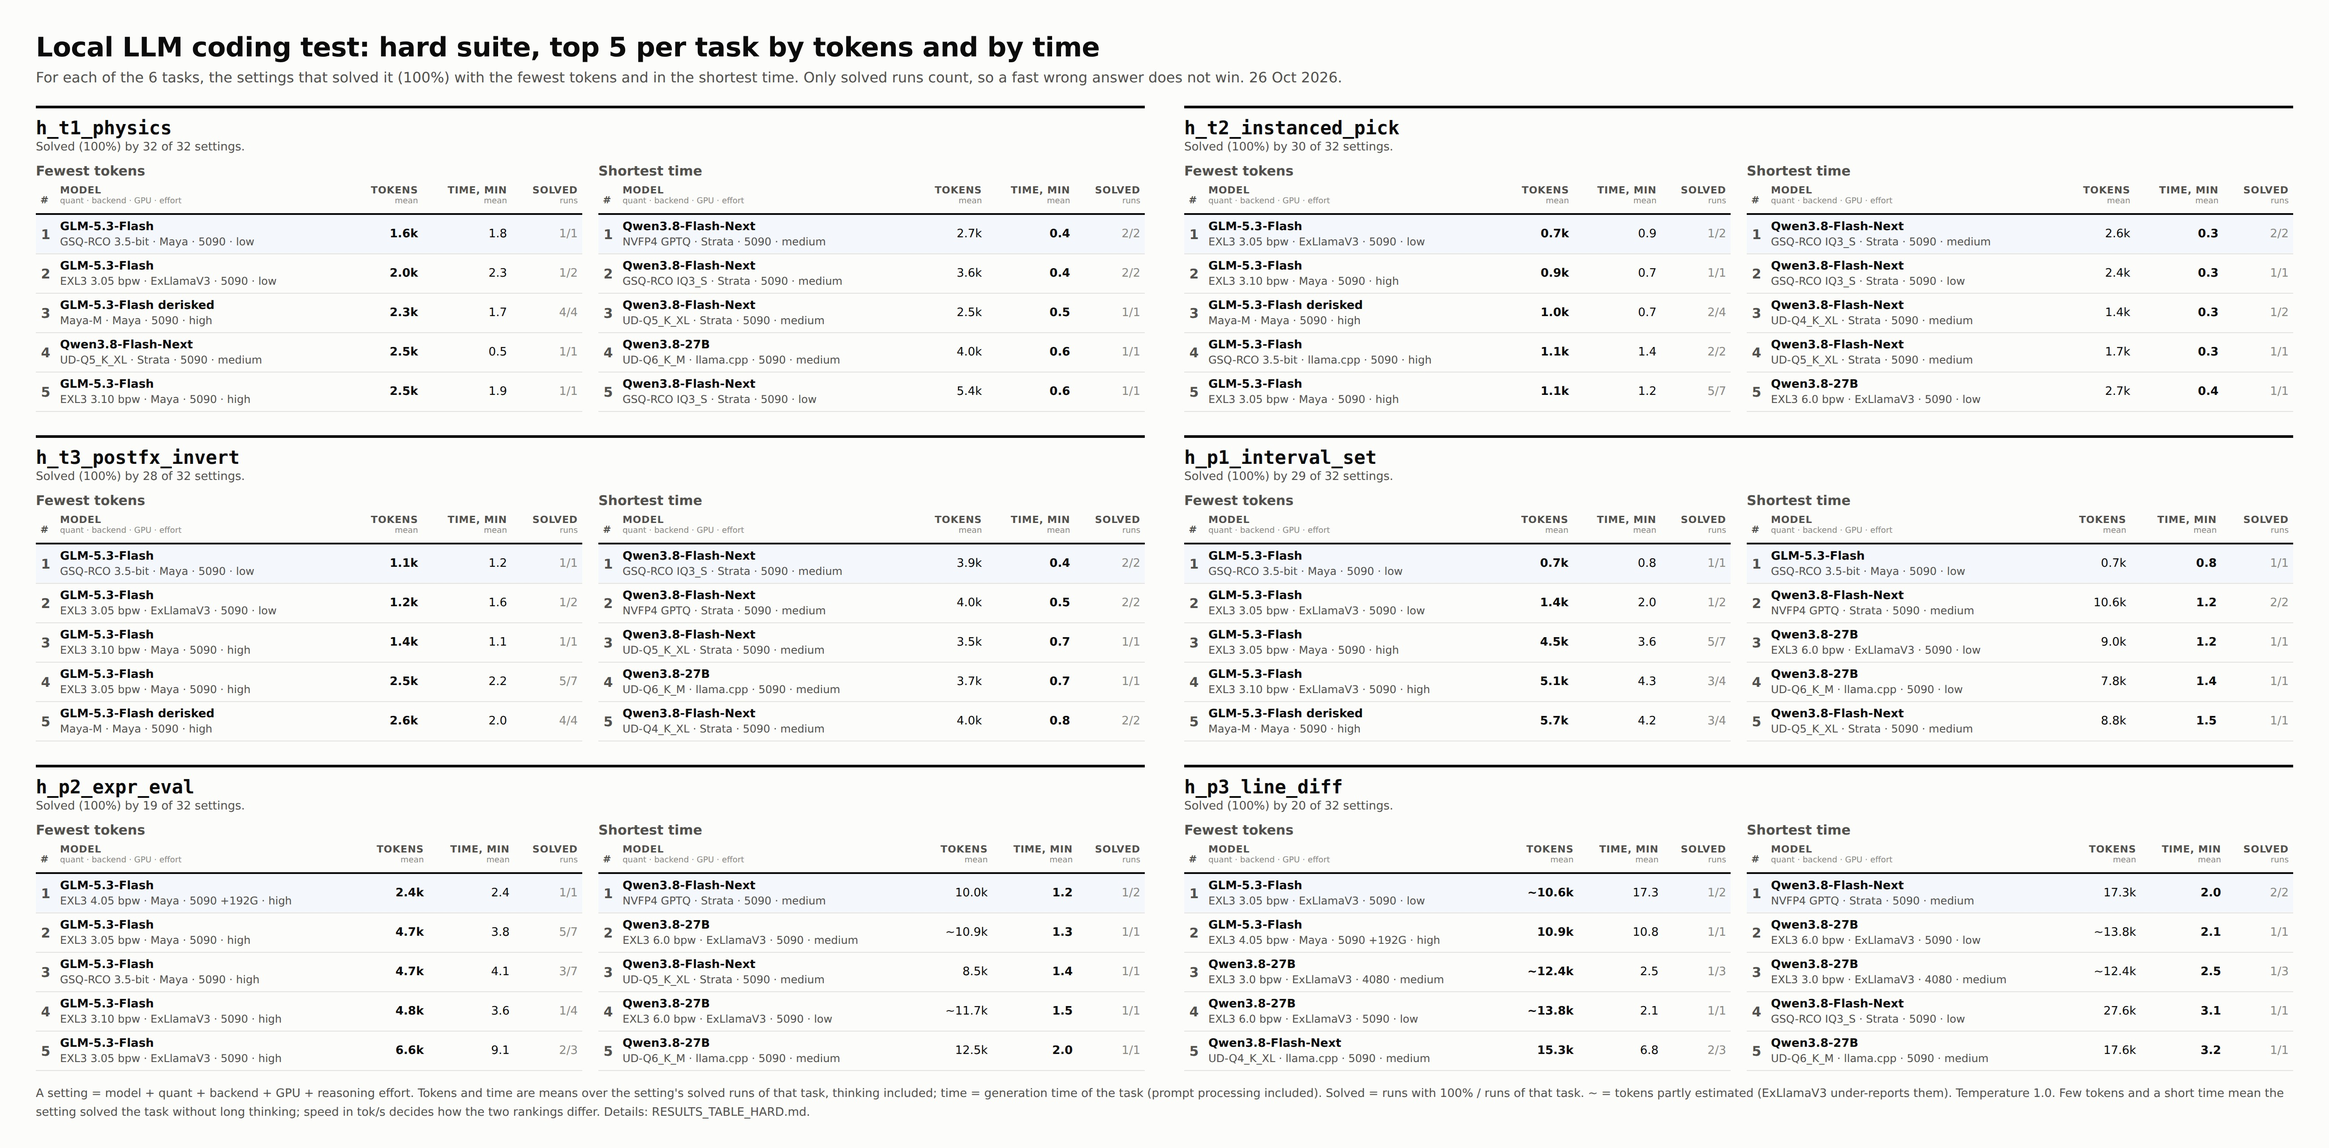
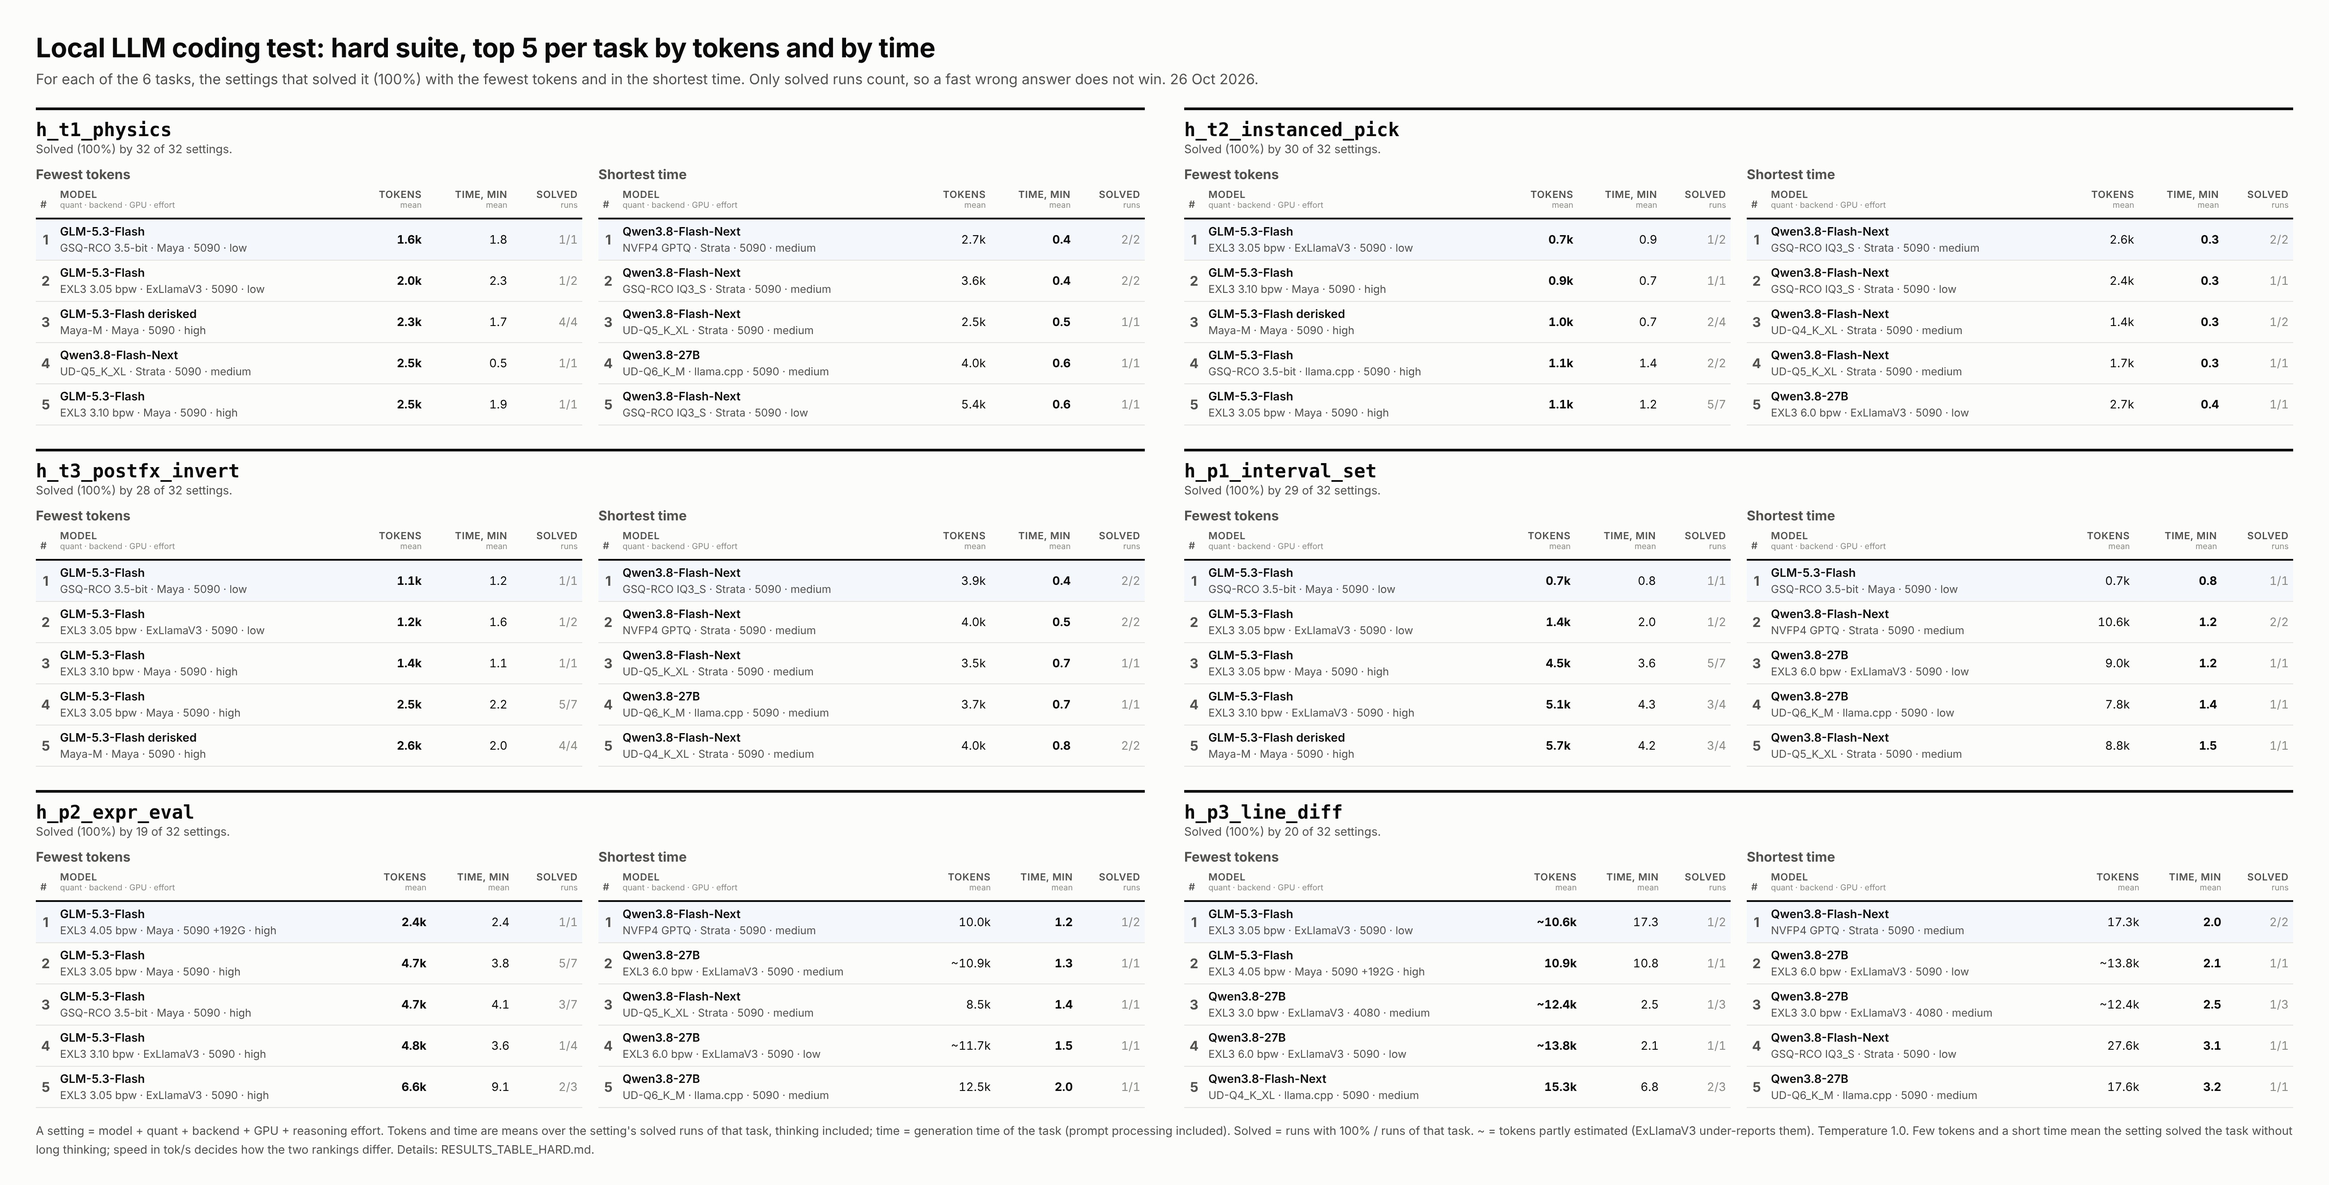
Scene suite: two DeepSeek-V4.1 runs on EXL2 2.9 bpw in Maya (100%), by-eye ratings, quant label EXL2
make_summary.py reads 'exl2.N' labels as EXL2 2.N bpw. ratings_scene.json: by-eye ratings for the two
new runs (low 6.5, high 7.5). Tables, gallery and docs regenerated; the Maya thinking cap at about
32.8k tokens holds again (32,781 and 32,796).

Claude-Session: https://claude.ai/code/session_01Hw6zjR7HPW2DCjpvk73ycY

diff --git a/make_summary.py b/make_summary.py
@@ -61,8 +61,11 @@ def describe(label, model):
         ver = "V4.1" if re.search(r"v?4[._]1(?![0-9])", m) else "V4"
         name = f"DeepSeek-{ver}-" + ("Pro" if re.search(r"[_-]pro(?![a-z0-9])", m) else "Flash")
         gguf = re.search(r"(ud-)?i?q\d_[a-z0-9]+(_[a-z]{1,2})?", m)
+        exl2 = re.search(r"exl2\.(\d)", m)  # "exl2.9": EXL2 at 2.9 bpw
         if "exl3" in m and bpw:
             quant = f"EXL3 {bpw.group(1) or bpw.group(2) or bpw.group(3) + '.' + bpw.group(4)} bpw"
+        elif exl2:
+            quant = f"EXL2 2.{exl2.group(1)} bpw"
         elif gguf:
             quant = ("GSQ-RCO " if "gsq-rco" in m else "") + gguf.group(0).upper()
         elif bit:

diff --git a/RESULTS_TABLE_SCENE.md b/RESULTS_TABLE_SCENE.md
@@ -12,8 +12,8 @@ Hardware: RTX 5090 32 GB + 128 GB RAM, and RTX 4080 16 GB + 32 GB DDR5 (the GPU 
 |---|---|---|---|---|---|---|---|---|---|---|---|---|---|---|
 | 1 | Qwen3.8-Flash-Next | NVFP4 GPTQ | Strata | RTX 5090 32 GB + 192 GB RAM | medium | 1 | **100.0%** | – | 100.0% | 0% | 1.2 | 8.4k | 155.8 | 30.8 |
 | 2 | DeepSeek-V4.1-Flash | GSQ-RCO IQ2_XS | Strata | RTX 5090 32 GB + 192 GB RAM | high | 1 | **100.0%** | – | 0.0% | 0% | 24.3 | 39.5k | 27.4 | 31.3 |
-| 3 | DeepSeek-V4.1-Flash | ? | Maya | RTX 5090 32 GB + 192 GB RAM | low | 1 | **100.0%** | – | 0.0% | 0% | 28.0 | 40.1k | 24.2 | 31.0 |
-| 4 | DeepSeek-V4.1-Flash | ? | Maya | RTX 5090 32 GB + 192 GB RAM | high | 1 | **100.0%** | – | 0.0% | 0% | 30.2 | 41.6k | 23.2 | 31.2 |
+| 3 | DeepSeek-V4.1-Flash | EXL2 2.9 bpw | Maya | RTX 5090 32 GB + 192 GB RAM | low | 1 | **100.0%** | – | 0.0% | 0% | 28.0 | 40.1k | 24.2 | 31.0 |
+| 4 | DeepSeek-V4.1-Flash | EXL2 2.9 bpw | Maya | RTX 5090 32 GB + 192 GB RAM | high | 1 | **100.0%** | – | 0.0% | 0% | 30.2 | 41.6k | 23.2 | 31.2 |
 | 5 | GLM-5.3-Flash | GSQ-RCO 3.5-bit | Maya | RTX 5090 32 GB + 192 GB RAM | high | 1 | **95.7%** | – | 0.0% | 0% | 27.8 | 40.0k | 24.2 | 31.0 |
 | 6 | GLM-5.3-Flash | EXL3 4.10 bpw | Maya | RTX 5090 32 GB + 192 GB RAM | high, 180 min | 1 | **95.7%** | – | 0.0% | 0% | 40.5 | 40.7k | 16.9 | 30.7 |
 | 7 | DeepSeek-V4.1-Flash | Maya-S | Maya | RTX 5090 32 GB + 192 GB RAM | high | 2 | **93.5%** | 87–100 | 0.0% | 0% | 28.8 | 42.6k | 24.9 | 31.4 |
@@ -33,9 +33,9 @@ Hardware: RTX 5090 32 GB + 128 GB RAM, and RTX 4080 16 GB + 32 GB DDR5 (the GPU 
 |---|---|---|---|---|---|---|---|---|---|---|---|---|---|---|---|---|---|
 | 1 | 26.10 12:55 | Qwen3.8-Flash-Next | NVFP4 GPTQ | Strata | RTX 5090 32 GB + 192 GB RAM | medium | **100.0%** | n/a | 100.0 | 1.2 | 8.4k | 1.6k | 6.8k | **152.4** | 163 | 30.8 | 85.8 |
 | 2 | 26.10 12:59 | DeepSeek-V4.1-Flash | GSQ-RCO IQ2_XS | Strata | RTX 5090 32 GB + 192 GB RAM | high | **100.0%** | n/a | 100.0 | 24.3 | 39.5k | 32.8k | 6.7k | **27.4** | 28 | 31.3 | 166.4 |
-| 3 | 26.10 16:43 | DeepSeek-V4.1-Flash | ? | Maya | RTX 5090 32 GB + 192 GB RAM | low | **100.0%** | n/a | 100.0 | 28.0 | 40.1k | 32.8k | 7.3k | **24.2** | 25 | 31.0 | 177.0 |
+| 3 | 26.10 16:43 | DeepSeek-V4.1-Flash | EXL2 2.9 bpw | Maya | RTX 5090 32 GB + 192 GB RAM | low | **100.0%** | n/a | 100.0 | 28.0 | 40.1k | 32.8k | 7.3k | **24.2** | 25 | 31.0 | 177.0 |
 | 4 | 26.10 12:08 | DeepSeek-V4.1-Flash | Maya-S | Maya | RTX 5090 32 GB + 192 GB RAM | high | **100.0%** | n/a | 100.0 | 29.4 | 41.8k | 32.8k | 9.1k | **24.0** | 24 | 31.3 | 163.2 |
-| 5 | 26.10 19:29 | DeepSeek-V4.1-Flash | ? | Maya | RTX 5090 32 GB + 192 GB RAM | high | **100.0%** | n/a | 100.0 | 30.2 | 41.6k | 32.8k | 8.8k | **23.3** | 24 | 31.2 | 187.2 |
+| 5 | 26.10 19:29 | DeepSeek-V4.1-Flash | EXL2 2.9 bpw | Maya | RTX 5090 32 GB + 192 GB RAM | high | **100.0%** | n/a | 100.0 | 30.2 | 41.6k | 32.8k | 8.8k | **23.3** | 24 | 31.2 | 187.2 |
 | 6 | 26.10 13:58 | GLM-5.3-Flash | GSQ-RCO 3.5-bit | Maya | RTX 5090 32 GB + 192 GB RAM | high | **95.7%** | n/a | 95.7 | 27.8 | 40.0k | 32.8k | 7.2k | **24.3** | 24 | 31.0 | 129.0 |
 | 7 | 26.10 14:34 | GLM-5.3-Flash | EXL3 4.10 bpw | Maya | RTX 5090 32 GB + 192 GB RAM | high, 180 min | **95.7%** | n/a | 95.7 | 40.5 | 40.7k | 32.8k | 7.9k | **16.9** | 17 | 30.7 | 155.7 |
 | 8 | 26.10 11:37 | DeepSeek-V4.1-Flash | Maya-S | Maya | RTX 5090 32 GB + 192 GB RAM | high | **87.0%** | n/a | 87.0 | 28.2 | 43.4k | 32.8k | 10.6k | **25.9** | 26 | 31.4 | 161.6 |
@@ -47,9 +47,9 @@ Hardware: RTX 5090 32 GB + 128 GB RAM, and RTX 4080 16 GB + 32 GB DDR5 (the GPU 
 |---|---|---|
 | 26.10 12:55 | Qwen3.8-Flash-Next NVFP4 GPTQ (Strata) / medium | 100 |
 | 26.10 12:59 | DeepSeek-V4.1-Flash GSQ-RCO IQ2_XS (Strata) / high | 100 |
-| 26.10 16:43 | DeepSeek-V4.1-Flash ? (Maya) / low | 100 |
+| 26.10 16:43 | DeepSeek-V4.1-Flash EXL2 2.9 bpw (Maya) / low | 100 |
 | 26.10 12:08 | DeepSeek-V4.1-Flash Maya-S (Maya) / high | 100 |
-| 26.10 19:29 | DeepSeek-V4.1-Flash ? (Maya) / high | 100 |
+| 26.10 19:29 | DeepSeek-V4.1-Flash EXL2 2.9 bpw (Maya) / high | 100 |
 | 26.10 13:58 | GLM-5.3-Flash GSQ-RCO 3.5-bit (Maya) / high | 96 |
 | 26.10 14:34 | GLM-5.3-Flash EXL3 4.10 bpw (Maya) / high, 180 min | 96 |
 | 26.10 11:37 | DeepSeek-V4.1-Flash Maya-S (Maya) / high | 87 |
@@ -62,7 +62,9 @@ How the picture looks, 1-10 per part (from [ratings_scene.json](ratings_scene.js
 | Run | Model | Quant | Backend | Effort | Score | By eye | Water | Island | Light | Boat | Note |
 |---|---|---|---|---|---|---|---|---|---|---|---|
 | 26.10 12:59 | DeepSeek-V4.1-Flash | GSQ-RCO IQ2_XS | Strata | high | 100% | **7.5** | 7 | 7 | 7 | 7 | turquoise water with a sun glint and a foam ring, green island with a beach, visible sun, a clear sailboat |
+| 26.10 19:29 | DeepSeek-V4.1-Flash | EXL2 2.9 bpw | Maya | high | 100% | **7.5** | 8 | 7 | 7 | 6 | high: clean turquoise water with foam rings, sand beach, green hill, palms; sailboat with a rectangular sail |
 | 26.10 12:08 | DeepSeek-V4.1-Flash | Maya-S | Maya | high | 100% | **7** | 6 | 8 | 6 | 6 | the most complete island (sand, grass, rocky peak, palms, shore foam); water ripples repeat in a visible grid |
+| 26.10 16:43 | DeepSeek-V4.1-Flash | EXL2 2.9 bpw | Maya | low | 100% | **6.5** | 7 | 6 | 7 | 6 | low: sun glint and foam rings around the island; palm crowns look bushy and odd; sailboat small but clear |
 | 26.10 14:34 | GLM-5.3-Flash | EXL3 4.10 bpw | Maya | high, 180 min | 96% | **6** | 8 | 4 | 6 | 5 | turquoise water with a sun-glitter path and foam, a good sky; the island and palms are very dark |
 | 26.10 13:58 | GLM-5.3-Flash | GSQ-RCO 3.5-bit | Maya | high | 96% | **5** | 8 | 3 | 4 | 5 | the best-looking deep-blue waves, but the island is a black silhouette (backlit, no fill light) |
 | 26.10 12:55 | Qwen3.8-Flash-Next | NVFP4 GPTQ | Strata | medium | 100% | **4** | 4 | 3 | 5 | 3 | a flat sand cone with tiny palms; dark blocky water; the boat is a thin sail on an almost invisible hull |

diff --git a/SUMMARY.md b/SUMMARY.md
@@ -21,7 +21,7 @@
 - **DeepSeek-V4.1-Flash scored 100% in all 5 runs** (base suite once, hard suite 4 times at `low` and `high`). With 192 GB RAM it runs at 24–26 tok/s, twice as fast as with 128 GB, but the hard suite still takes 69–88 min. See Part 8. DeepSeek now has its own table and image, like GLM: [RESULTS_TABLE_DEEPSEEK.md](RESULTS_TABLE_DEEPSEEK.md), [deepseek.jpg](deepseek.jpg). See Part 7.
 - **Per task, fewest tokens vs shortest time** ([tasks_base.jpg](tasks_base.jpg), [tasks_hard.jpg](tasks_hard.jpg)): GLM-5.3-Flash solves tasks with the fewest tokens, but Flash-Next in Strata and Qwen3.8-27B in VRAM solve them fastest, because they run 5–10 times faster.
 - **Flash-Next in Strata, two new files on the hard suite (19–20 Oct):** UD-Q5_K_XL 100% in 8 min (one run), and NVFP4 GPTQ 100% and 93.2% in under 6 min at about 139 tok/s.
-- **New scene suite (26 Oct): one large graphics task**, a boat on an ocean next to an island. Most runs score 96–100%, so each run also gets a by-eye rating (1–10) on the gallery ([scene_gallery.jpg](scene_gallery.jpg)). DeepSeek-V4.1 made the best scenes (7–7.5), GLM-5.3 the best water but dark islands (5–6), Qwen3.8-Flash-Next NVFP4 finished in 1.2 min with the simplest picture (4). See Part 9.
+- **New scene suite (26 Oct): one large graphics task**, a boat on an ocean next to an island. Most runs score 96–100% (two more DeepSeek runs on a new EXL2 2.9 bpw file also scored 100%), so each run also gets a by-eye rating (1–10) on the gallery ([scene_gallery.jpg](scene_gallery.jpg)). DeepSeek-V4.1 made the best scenes (7–7.5), GLM-5.3 the best water but dark islands (5–6), Qwen3.8-Flash-Next NVFP4 finished in 1.2 min with the simplest picture (4). See Part 9.
 - **Maya stops thinking at about 32.8k tokens.** Since 12 Oct every long-thinking task in Maya ended at 32,776–32,836 thinking tokens, then the answer followed; DeepSeek in Strata does the same. This explains much of what looked like Maya's advantage on the hard suite (no time-outs, faster runs) and its wrong diffs. See Part 9.
 - **At temperature 1.0, one run is not enough.** The same setting ranged over up to 19 points between runs (Flash-Next UD-Q4_K_XL on the hard suite: 79–98%).
 - **Some settings keep failing the same task over repeated runs.** The tables now list them as "Problem tasks" / "Often fails" (below 90% in at least half the runs). Most common:
@@ -454,8 +454,10 @@ PC A got 192 GB of RAM on 23 Oct. Runs from then on are kept apart in the tables
 
 | Model · quant · engine | Effort | Score | By eye | Time | Tokens (thinking) | Picture |
 |---|---|---|---|---|---|---|
+| DeepSeek-V4.1-Flash EXL2 2.9 bpw · Maya | high | 100% | **7.5** | 30.2 min | 41.6k (32.8k) | clean turquoise water with foam rings, sand beach, green hill, palms; sailboat with a rectangular sail |
 | DeepSeek-V4.1-Flash GSQ-RCO IQ2_XS · Strata | high | 100% | **7.5** | 24.3 min | 39.5k (32.8k) | turquoise water with a sun glint and foam, green island with a beach, a clear sailboat |
 | DeepSeek-V4.1-Flash Maya-S · Maya | high | 100% | **7** | 29.4 min | 41.8k (32.8k) | the most complete island (sand, grass, rocky peak, palms, foam); water ripples repeat in a grid |
+| DeepSeek-V4.1-Flash EXL2 2.9 bpw · Maya | low | 100% | **6.5** | 28.0 min | 40.1k (32.8k) | sun glint and foam rings around the island; palm crowns look bushy and odd |
 | GLM-5.3-Flash EXL3 4.10 bpw · Maya | high, 180 min | 96% | **6** | 40.5 min | 40.7k (32.8k) | the best water (glitter path, foam) and sky; island and palms very dark |
 | GLM-5.3-Flash GSQ-RCO 3.5-bit · Maya | high | 96% | **5** | 27.8 min | 40.0k (32.8k) | beautiful deep-blue waves; the island is a black silhouette |
 | Qwen3.8-Flash-Next NVFP4 GPTQ · Strata | medium | 100% | **4** | **1.2 min** | 8.4k (1.6k) | a flat sand cone, blocky water, a barely visible boat |
@@ -467,7 +469,7 @@ PC A got 192 GB of RAM on 23 Oct. Runs from then on are kept apart in the tables
 - **The DeepSeek scene from Maya's chat** (the user's own longer prompt: pier, rowboat, lil-gui, bloom; about 3 hours) is far richer than any of these 30-minute results. It is not comparable: another prompt and no test hooks.
 
 **Maya stops thinking at about 32.8k tokens.**
-- In Maya, every task that thought long since 12 Oct ended at 32,776–32,836 thinking tokens (15 tasks: 10 hard-suite `h_p3_line_diff` runs of GLM and all 5 DeepSeek and GLM scene runs), and the answer came right after. Only two runs on 11 Oct thought longer (37k and 45k).
+- In Maya, every task that thought long since 12 Oct ended at 32,776–32,836 thinking tokens (17 tasks: 10 hard-suite `h_p3_line_diff` runs of GLM and all 7 DeepSeek and GLM scene runs that finished), and the answer came right after. Only two runs on 11 Oct thought longer (37k and 45k).
 - llama.cpp, ExLlamaV3 and Strata with Qwen think up to the 98,304-token limit. DeepSeek in Strata also stopped at 32.8k on the scene task, so the limit may come from the DeepSeek chat template or from both engines; it is worth checking the engines' thinking-budget settings.
 - **This changes the reading of Part 5.** GLM in Maya never timed out on `h_p3_line_diff` and ran about twice as fast partly because its thinking was cut at 32.8k; the wrong diffs in Maya (7 of 18) fit that too. For the same reason a longer limit barely helps on the scene task: DeepSeek in Maya finished within 30 min both times (28 and 29 min; one was started with a 180-minute limit, so both count as the same setting, mean 93.5%); only GLM EXL3 4.10 bpw used more (40 min).
 

diff --git a/README.md b/README.md
@@ -359,8 +359,10 @@ All on the RTX 5090 + 192 GB RAM, one run each. Table: [RESULTS_TABLE_SCENE.md](
 
 | Model · quant · engine | Effort | Score | By eye | Time | Tokens (thinking) | Picture |
 |---|---|---|---|---|---|---|
+| DeepSeek-V4.1-Flash EXL2 2.9 bpw · Maya | high | 100% | **7.5** | 30.2 min | 41.6k (32.8k) | clean turquoise water with foam rings, sand beach, green hill, palms; sailboat with a rectangular sail |
 | DeepSeek-V4.1-Flash GSQ-RCO IQ2_XS · Strata | high | 100% | **7.5** | 24.3 min | 39.5k (32.8k) | turquoise water with a sun glint and foam, green island with a beach, a clear sailboat |
 | DeepSeek-V4.1-Flash Maya-S · Maya | high | 100% | **7** | 29.4 min | 41.8k (32.8k) | the most complete island (sand, grass, rocky peak, palms, foam); water ripples repeat in a grid |
+| DeepSeek-V4.1-Flash EXL2 2.9 bpw · Maya | low | 100% | **6.5** | 28.0 min | 40.1k (32.8k) | sun glint and foam rings around the island; palm crowns look bushy and odd |
 | GLM-5.3-Flash EXL3 4.10 bpw · Maya | high, 180 min | 96% | **6** | 40.5 min | 40.7k (32.8k) | the best water (glitter path, foam) and sky; island and palms very dark |
 | GLM-5.3-Flash GSQ-RCO 3.5-bit · Maya | high | 96% | **5** | 27.8 min | 40.0k (32.8k) | beautiful deep-blue waves; the island is a black silhouette |
 | Qwen3.8-Flash-Next NVFP4 GPTQ · Strata | medium | 100% | **4** | **1.2 min** | 8.4k (1.6k) | a flat sand cone, blocky water, a barely visible boat |
@@ -368,6 +370,7 @@ All on the RTX 5090 + 192 GB RAM, one run each. Table: [RESULTS_TABLE_SCENE.md](
 | GLM-5.3-Flash EXL3 4.10 bpw · Maya | high | 0% | – | 30 min (limit) | 30.9k, no answer | – |
 
 - **The score alone does not separate the good scenes,** so each run also has a by-eye rating, 1–10 for water, island, light and boat ([ratings_scene.json](ratings_scene.json), rated from the gallery screenshots; edit it if you see it differently). Two checks were added after the first runs (`water_visible`, `island_lit`) and the saved answers were graded again: the scene without water fell from 90% to 87%, the two GLM scenes with a black island to 96%.
+- **Two more DeepSeek-V4.1 runs on a different file (EXL2 2.9 bpw, Maya, 26 Oct, both at 100%):** `low` finished in 28.0 min (6.5 by eye), `high` in 30.2 min (7.5 by eye). Their thinking stopped at 32.8k tokens again (32,781 and 32,796), so `low` and `high` used almost the same number of tokens (40.1k and 41.6k): with the cap, the level barely changes this task.
 - **DeepSeek-V4.1 made the best scenes** (7–7.5 by eye), GLM-5.3 the best water but dark islands (5–6), Qwen3.8-Flash-Next NVFP4 the fastest and simplest (4).
 - **Qwen3.8-Flash-Next NVFP4 in Strata did it in 1.2 min**, 20–30 times faster than the others, but its picture is the weakest of the finished ones.
 - **Thinking stopped at about 32.8k tokens in every DeepSeek and GLM run** (32,776–32,798), then the model wrote the answer. See SUMMARY.md, Part 9: Maya (and Strata with DeepSeek) cut thinking there, so a longer limit barely helps: DeepSeek started with a 180-minute limit still finished in 29 min (it counts as a second run of the same setting, mean 93.5%), GLM-5.3 EXL3 4.10 bpw used 40 min.

diff --git a/RESULTS_TABLE_GLM.md b/RESULTS_TABLE_GLM.md
@@ -65,6 +65,6 @@ Mean score per suite, with the number of runs, the mean time and the mean tokens
 | Model | Quant | Backend | RAM | Effort | Runs | Mean | Min–max | Score @10 min/32k | Broken | Mean time (min) | Mean tokens | Avg tok/s (from time) | Problem tasks |
 |---|---|---|---|---|---|---|---|---|---|---|---|---|---|
 | GLM-5.3-Flash | GSQ-RCO 3.5-bit | Maya | 128 GB | high | 2 | **100.0%** | 100–100 | 100.0% | 0% | 3.0 | 1.2k | 6.7 | – |
-| GLM-5.3-Flash derisked | Maya-M | Maya | 128 GB | high | 4 | **99.6%** | 98–100 | 99.6% | 0% | 1.9 | 1.2k | 10.3 | – |
+| GLM-5.3-Flash derisked | Maya-M | Maya | 128 GB | high | 4 | **99.6%** | 98–100 | 99.6% | 0% | 2.0 | 1.2k | 10.3 | – |
 
 Score @10 min/32k = the score if every task had to finish within 10 minutes and 32,768 tokens. Broken = share of tasks where generation itself failed (out of tokens or time, stopped mid-thought, looped, no final answer). `~` = token count partly estimated. All other suites' tables: RESULTS_TABLE*.md.

diff --git a/RESULTS_TABLE_TOOLS.md b/RESULTS_TABLE_TOOLS.md
@@ -11,7 +11,7 @@ Hardware: RTX 5090 32 GB + 128 GB RAM, and RTX 4080 16 GB + 32 GB DDR5 (the GPU 
 | # | Model | Quant | Backend | GPU | Reasoning effort | Runs | Mean score | Min–max | Score @10 min/32k | Broken | Mean time (min) | Mean tokens | Avg tok/s (from time) | VRAM GB |
 |---|---|---|---|---|---|---|---|---|---|---|---|---|---|---|
 | 1 | GLM-5.3-Flash | GSQ-RCO 3.5-bit | Maya | RTX 5090 32 GB | high | 2 | **100.0%** | 100–100 | 100.0% | 0% | 3.0 | 1.2k | 6.7 | 31.2 |
-| 2 | GLM-5.3-Flash derisked | Maya-M | Maya | RTX 5090 32 GB | high | 4 | **99.6%** | 98–100 | 99.6% | 0% | 1.9 | 1.2k | 10.3 | 31.1 |
+| 2 | GLM-5.3-Flash derisked | Maya-M | Maya | RTX 5090 32 GB | high | 4 | **99.6%** | 98–100 | 99.6% | 0% | 2.0 | 1.2k | 10.3 | 31.1 |
 | 3 | DeepSeek-V4.1-Flash | Maya-S | Maya | RTX 5090 32 GB + 192 GB RAM | high | 4 | **99.6%** | 98–100 | 99.6% | 0% | 3.6 | 1.8k | 8.5 | 31.1 |
 
 ## Stability (settings run 2+ times)
